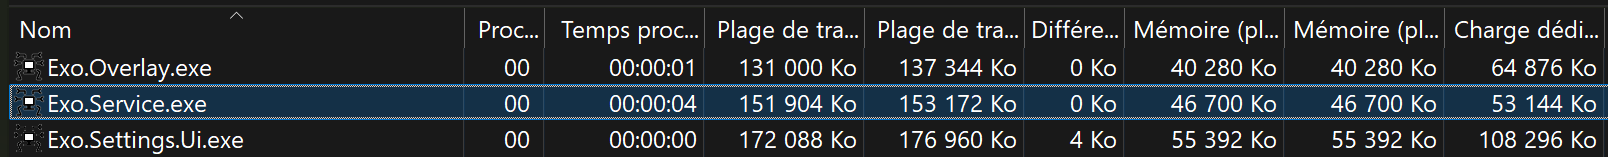
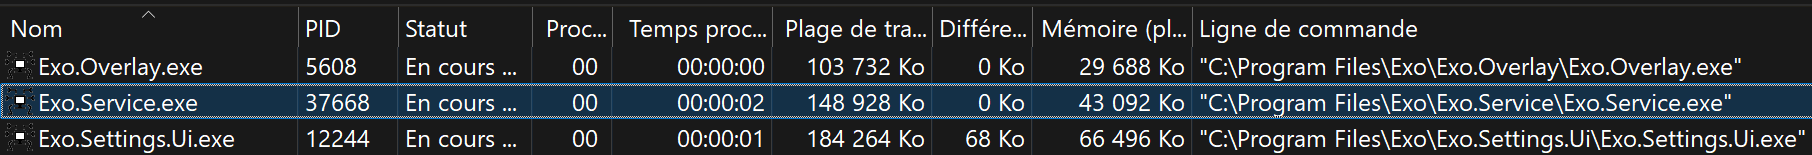
📝 Update the main page.
Specifically, since the cooling module is now production ready and can replace some other software 🥳

diff --git a/index.md b/index.md
@@ -1,8 +1,8 @@
 Exo is a lightweight background service bundled with a nice modern Windows UI, that will manage the features of your devices without sacrificing your memory or CPU.
 
-With Exo, you can get rid of many low-performing apps on your computer, and free some useful resources.
+With Exo, you can get rid of many inefficient apps on your computer, and reduce the RAM and CPU consumption.
 
-You can check the [Supported Devices](devices.md) page to see if your device is supported.
+You can check the [Supported Devices](devices.md) page to see if your device(s) are supported.
 
 Download a [recent build](https://github.com/hexawyz/Exo/actions), or [a release](https://github.com/hexawyz/Exo/releases) on GitHub.
 
@@ -108,24 +108,31 @@ This is mainly used for low-level devices such as a GPU or a PSU, but being able
 
 More importantly, having a wide source of sensors is necessary to support software cooling curves.
 
-## Cooling (WIP)
-
-⚠ This feature is not yet entirely complete. Notably, the settings won't be persisted and applied on service startup.
+## Cooling
 
 ![Screenshot of the Cooling page](images/Screenshot-Exo-Cooling.png)
 
 Exo is able to change cooling settings of devices. (Fan power, Pump power)
 
-It also supports applying software cooling curves based on available sensors.
+Cooling curves can be applied based on other sensors.
+Support for hardware cooling curves is available for devices that are capable of it.
+Otherwise, Exo will manage software cooling curves, which are more flexible and can be more efficient but will consume some CPU.
 
 # How
 
-Exo is implemented as a Windows service, which will start very early and consume a few dozens of MB at most.
+Exo is implemented as a Windows service. This means that it will start early and outside of any graphical user session, which is something that you absolutely want.
 
-This is far from the hundeds of MB that a single manufacturer app would typically consume, and which would usually only run once your session is started.
+This background service will only consume a few dozens of MB, which is far from the hundreds of MB that many of manufacturer apps would typically consume.
+Many of those apps would also be unable to run outside of graphical user session because of their design.
 
-The UI is kept as a separate component in order to preserve precious system resources, and allow you to only show it when you need it.
+Obviously, we still want some nice UI to configure everything.
+In the case of Exo, the UI is kept as a separate application, that you can start only when needed.
+This allow preserving previous system resources, while not depriving of the comfort of a UI.
 
-![Screenshor from Task Manager running Exo](images/Screenshot-TaskManager-Exo-Resources.png)
+Exo is also supported by a lighter UI helper component that will be in charge of displaying overlay notifications and providing some support to the service for some features that require UI access.
+Notably, this component is strictly required to be running in order to support monitor devices on most Intel GPUs. (Because on "old" devices, Intel does not provide an API allowing to access DDC features unlike NVIDIA or AMD)
 
-As you can see on the screenshot above, Exo memory consumption is pretty reasonnable, topping at about 46 MB of exclusive memory for the background service, while handling more devices and combined features than a software you would use for a single device.
+![Screenshot from Task Manager running Exo](images/Screenshot-TaskManager-Exo-Resources.png)
+
+As you can see on the screenshot above, Exo memory consumption is pretty reasonable, topping at about 43 MB of exclusive memory for the background service.
+This is all while handling more devices and combined features than the software you would typically use for a single device.
